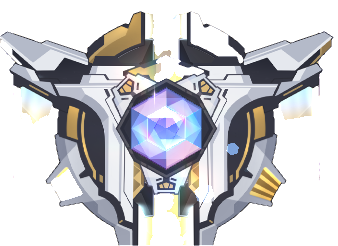
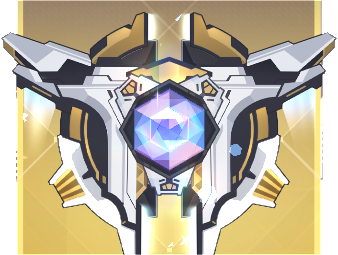
fix: 贺图徽章改用官方截图原版（扩宽裁剪保留完整翼尖）
- 之前反复抠图去背景，把金色顶饰/尖锥/羽翼纹等设计元素误删，且边缘锯齿严重

- 改为直接裁官方职级界面截图，保留原版金色展台，只去掉边缘冷色（紫）背景

- 裁剪范围从 x=26 w=303 扩宽到 x=6 w=355，两侧翼尖不再被截断

check 零错误，228 测试全过

diff --git a/src/renderer/src/panel/celebration.css b/src/renderer/src/panel/celebration.css
@@ -90,10 +90,14 @@
 }
 .cel-badge-img {
   position: relative; z-index: 2;
-  /* 按容器宽度自适应，保持原始比例，绝不裁切 */
-  width: 100%; max-width: 460px; height: auto;
+  width: 100%; max-width: 430px; height: auto;
   object-fit: contain;
-  filter: drop-shadow(0 8px 36px rgba(232, 196, 118, .45)) saturate(1.06);
+  /* 官方原版截图；两侧残余像素用圆角裁掉，翼尖完整保留 */
+  border-radius: 16px;
+  border: 2px solid rgba(232, 196, 118, .5);
+  box-shadow:
+    0 14px 50px rgba(0, 0, 0, .55),
+    0 0 70px rgba(232, 196, 118, .22);
 }
 .cel-badge-svg {
   position: relative; z-index: 2;
